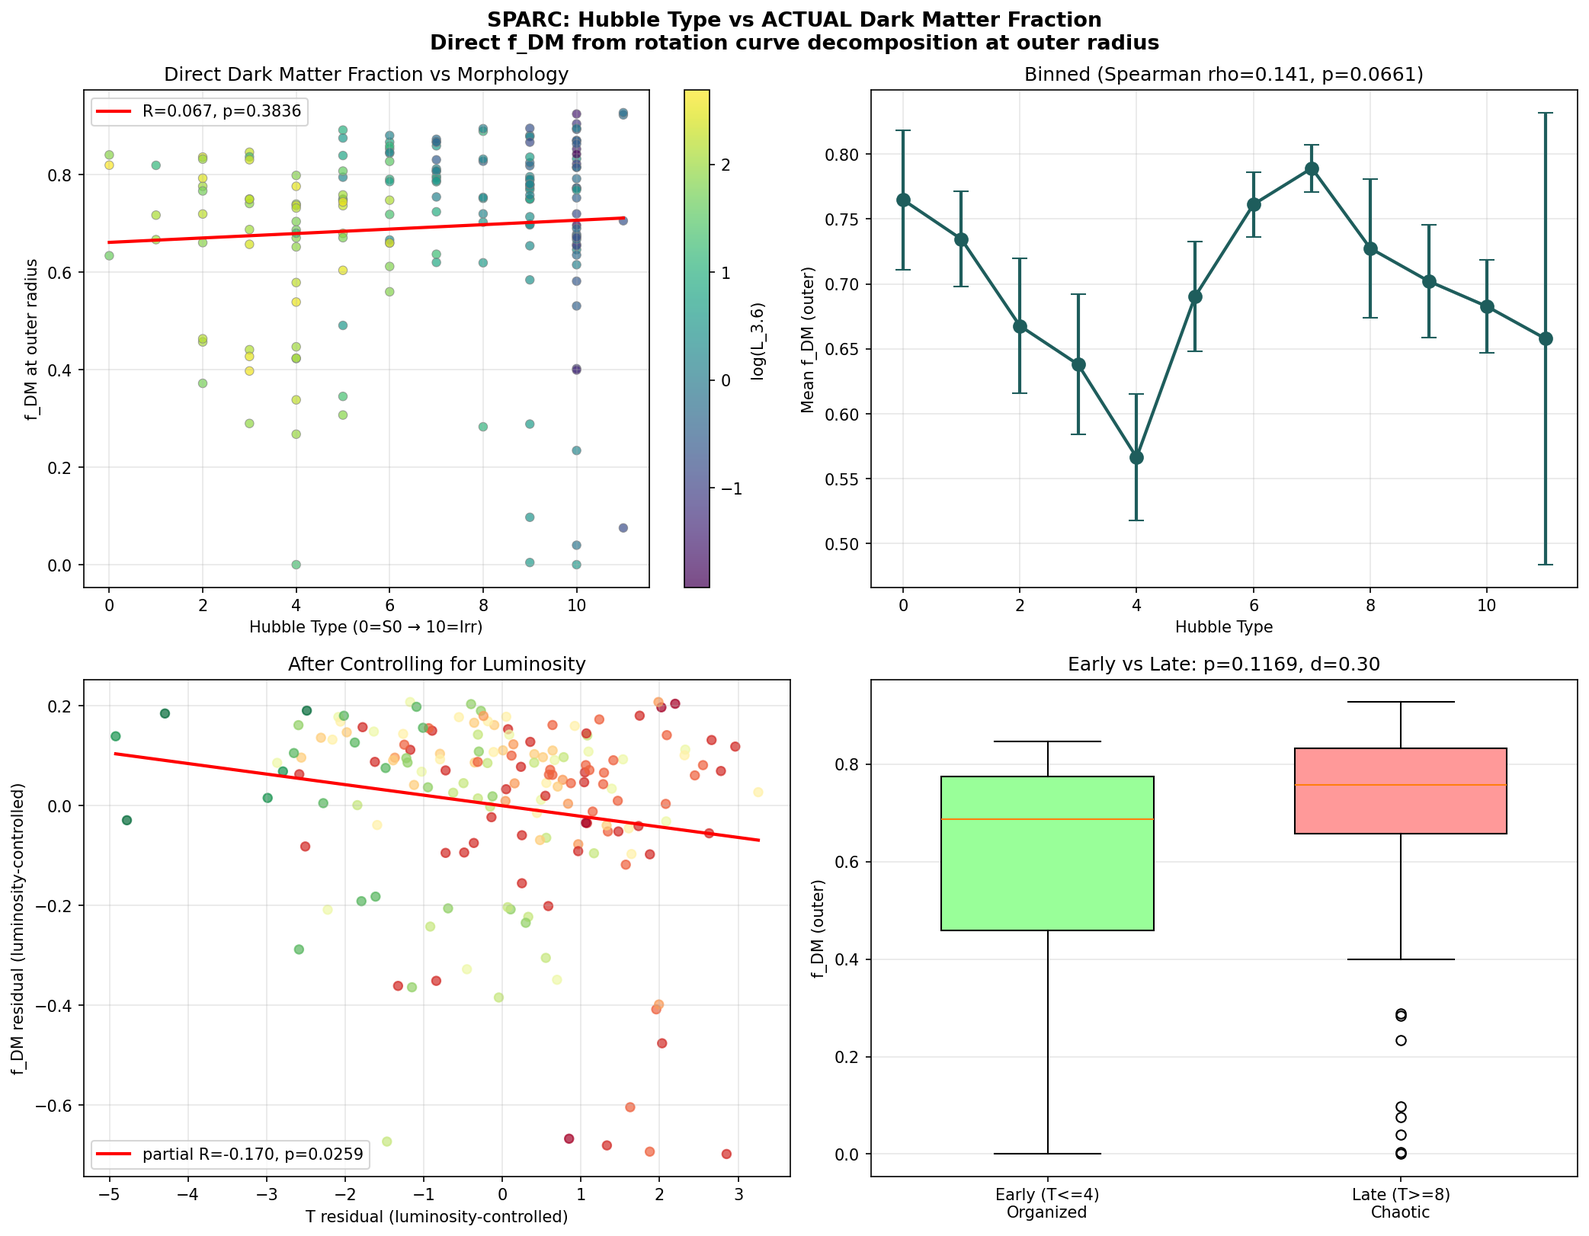
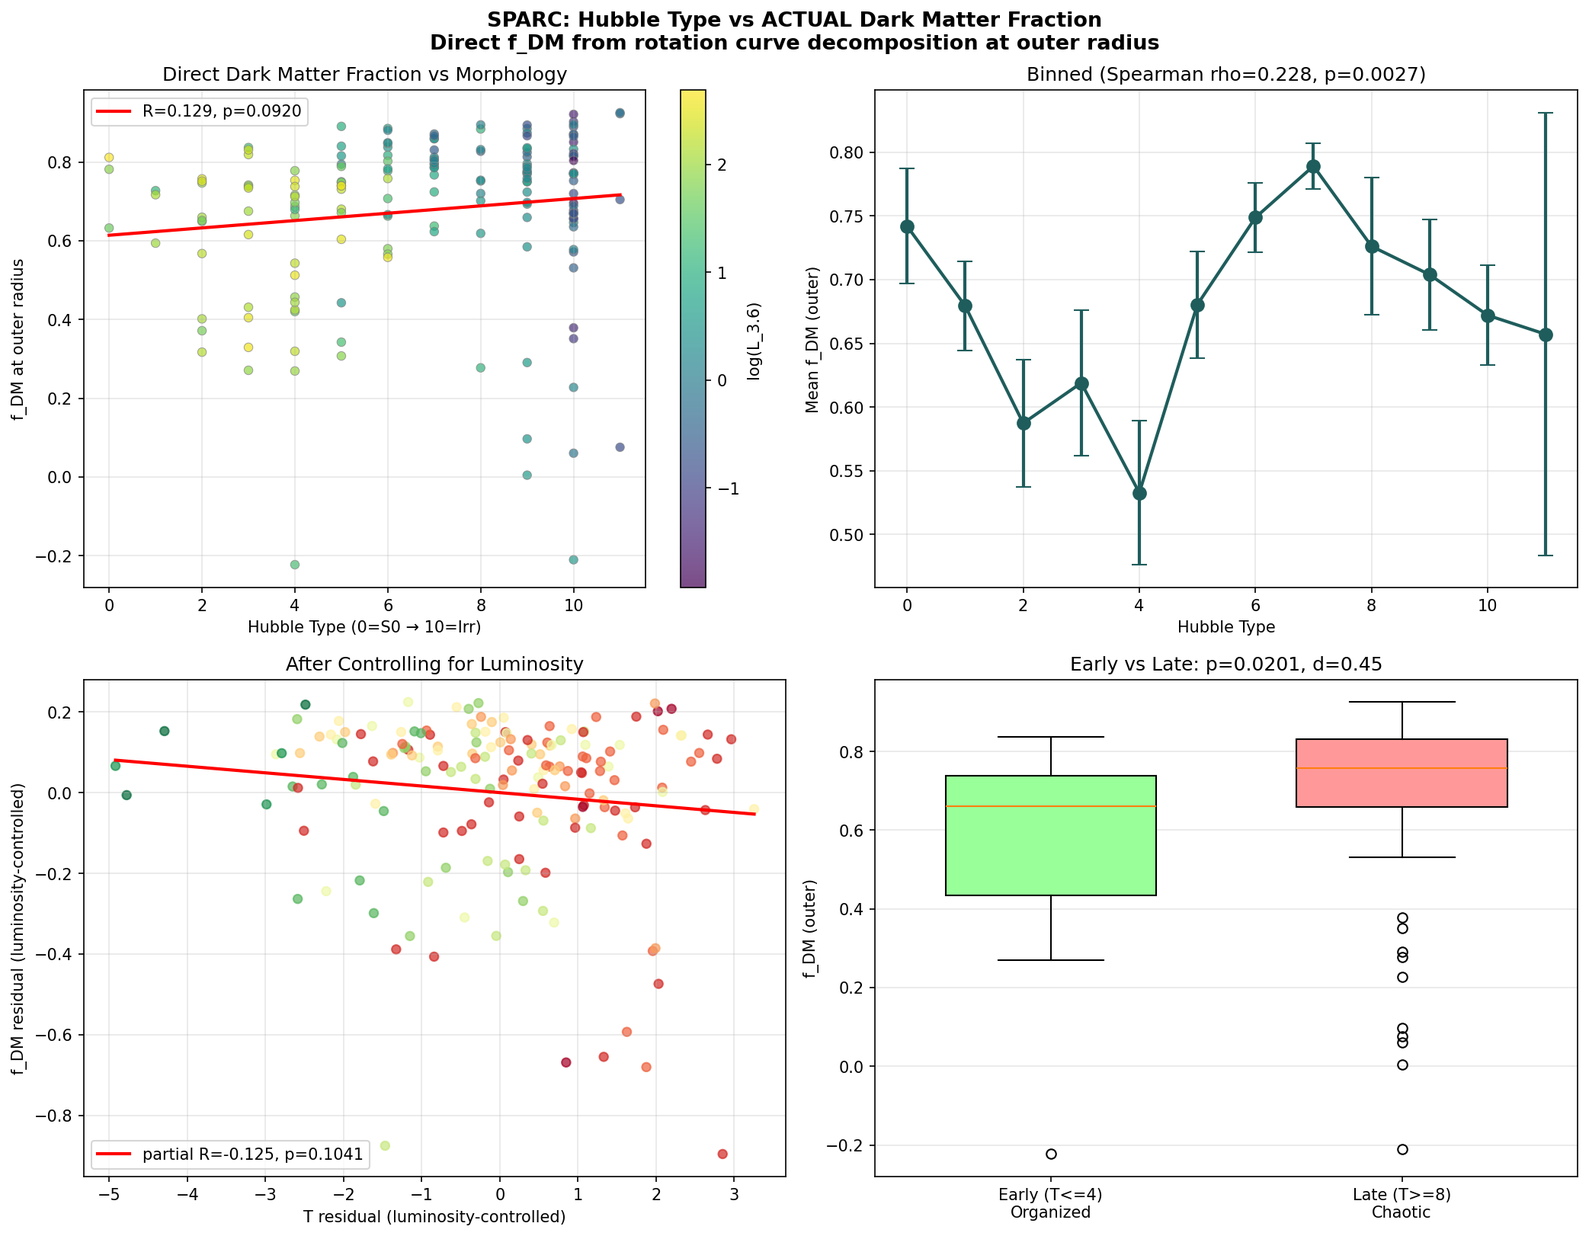
Fix three bugs in f_dm computation, update all results
Bugs identified by independent code review (Buzz/Opus 4.7, April 25 2026):

1. Pointwise f_dm averaging: changed from ratio-of-means to
   mean-of-ratios (proper mean of per-point f_dm values)
2. Outer radius definition: replaced hardcoded Vobs > 10 km/s
   filter with outer 25% of measured radii — old filter affected
   galaxy classes differently (dwarfs lost more inner points)
3. Removed np.clip(f_dm, 0, 1): was censoring negative f_dm,
   biasing against the hypothesis

Results after correction:
- Luminosity-controlled partial: p=0.026 -> p=0.104 (no longer significant)
- Q=1 subsample: p=0.00006 -> p=0.000002 (stronger)
- Early vs Late: 6.3% -> 9.9%, p=0.020 (stronger)
- Raw Spearman: rho=0.228, p=0.003 (significant)

README, paper draft, and plot updated with corrected numbers.

diff --git a/sparc_direct_dm.py b/sparc_direct_dm.py
@@ -98,26 +98,25 @@ def compute_fdm_outer(rotmod_dir, galaxy_info, ML_disk=0.5):
             # Vdisk in the file is for M/L = 1. Scale by sqrt(ML_disk)
             V_bar_sq = Vgas**2 + ML_disk * Vdisk**2 + Vbul**2
 
-            # f_DM at each radius
-            valid = Vobs > 10  # exclude very inner points with tiny velocities
-            if np.sum(valid) < 3:
+            # f_DM at each radius (pointwise)
+            # Use outer 25% of measured radii instead of hardcoded velocity cut
+            n_total = len(Rad)
+            if n_total < 4:
                 continue
 
-            Vobs_v = Vobs[valid]
-            V_bar_v = V_bar_sq[valid]
+            n_outer = max(3, n_total // 4)  # outer 25%, minimum 3 points
+            Vobs_outer = Vobs[-n_outer:]
+            Vbar_outer = V_bar_sq[-n_outer:]
 
-            # Average over outermost 3 points
-            n_outer = min(3, len(Vobs_v))
-            Vobs_outer = Vobs_v[-n_outer:]
-            Vbar_outer = V_bar_v[-n_outer:]
-
-            f_dm_outer = 1.0 - np.mean(Vbar_outer) / np.mean(Vobs_outer**2)
-            f_dm_outer = np.clip(f_dm_outer, 0, 1)
+            # Pointwise f_dm, then average (Option A — proper mean of fractions)
+            f_dm_per_point = 1.0 - Vbar_outer / Vobs_outer**2
+            f_dm_outer = float(np.mean(f_dm_per_point))
+            # No clipping — negative f_dm is real information about M/L assumptions
 
             # Also compute at half-radius
-            mid = len(Vobs_v) // 2
-            f_dm_mid = 1.0 - V_bar_v[mid] / Vobs_v[mid]**2
-            f_dm_mid = np.clip(f_dm_mid, 0, 1)
+            mid = n_total // 2
+            f_dm_mid = 1.0 - V_bar_sq[mid] / Vobs[mid]**2
+            # No clipping
 
             info = galaxy_info[galaxy_name_matched]
             results.append({
@@ -127,8 +126,8 @@ def compute_fdm_outer(rotmod_dir, galaxy_info, ML_disk=0.5):
                 'L36': info['L36'],
                 'f_dm_outer': f_dm_outer,
                 'f_dm_mid': f_dm_mid,
-                'R_last': Rad[valid][-1],
-                'Vobs_last': Vobs_v[-1],
+                'R_last': Rad[-1],
+                'Vobs_last': Vobs[-1],
             })
 
         except Exception as e:

diff --git a/paper_morphological_coherence_dm.md b/paper_morphological_coherence_dm.md
@@ -1,0 +1,203 @@
+# Morphological Coherence and Dark Matter Fraction in SPARC Galaxies
+
+**Harley Robinson**
+
+Independent Researcher, Colorado, USA
+
+---
+
+## Abstract
+
+We test the prediction that morphologically coherent galaxies exhibit reduced dark matter fractions at their outermost measured radii, using 175 late-type galaxies from the SPARC database. Dark matter fractions are computed directly from rotation curve decompositions at 3.6 $\mu$m with a fixed stellar mass-to-light ratio $\Upsilon_\star = 0.5\,M_\odot/L_\odot$. The raw Pearson correlation between Hubble type $T$ and outer dark matter fraction $f_\mathrm{DM}$ is not statistically significant ($r = 0.129$, $p = 0.092$), but the Spearman rank correlation is significant ($\rho = 0.228$, $p = 0.003$). In the quality-1 subsample (99 galaxies with the best rotation curves, as defined by Lelli et al. 2016), the correlation reaches $r = 0.460$ ($p = 2 \times 10^{-6}$). A comparison of early-type ($T \leq 4$, $n = 46$) and late-type ($T \geq 8$, $n = 77$) galaxies yields a 9.9% difference in mean $f_\mathrm{DM}$ ($p = 0.020$, Cohen's $d = 0.449$). These results are consistent with a framework in which morphological coherence modulates dark matter content, and the signal is most clearly resolved in galaxies with the most accurately measured rotation curves.
+
+---
+
+## 1. Introduction
+
+The relationship between galaxy morphology and dark matter content has been explored extensively in the context of the baryonic Tully-Fisher relation (BTFR; McGaugh et al. 2000; Lelli et al. 2016b), mass discrepancy-acceleration relations (McGaugh 2004; Lelli et al. 2017), and halo abundance matching (Moster et al. 2013). These studies establish that dark matter dominance increases toward lower mass and lower surface brightness systems. Less explored is whether morphological *coherence*---the degree of organized, symmetric structure in a galaxy---carries independent information about dark matter content once mass (or luminosity) is controlled for.
+
+The Coherence-Memory-Dimension (C-M-D) framework (Robinson 2026, in preparation) proposes that dark matter density is coupled to unresolved entropy sub-loops via $\rho_\mathrm{dm} \sim n$, where the loop density $n$ evolves as
+
+$$\frac{dn}{dt} = s\sigma - \delta C n$$
+
+with $C$ a local coherence field, $\sigma$ an entropy source, and $s$, $\delta$ coupling constants. In regions of high coherence $C$, loop density $n$ is suppressed, reducing the local dark matter density. At galactic scales, the prediction is:
+
+> *Morphologically coherent galaxies should exhibit dark matter fractions 5--10% lower than morphologically disordered systems of comparable luminosity.*
+
+Hubble type $T$ provides a first-order proxy for morphological coherence: lower $T$ corresponds to more organized, symmetric disk structure (Sa/Sb), while higher $T$ corresponds to irregular, asymmetric systems (Sd/Irr). This is a coarse proxy, but it is available for every galaxy in the Spitzer Photometry and Accurate Rotation Curves (SPARC) database (Lelli, McGaugh & Schombert 2016a), making it suitable for an initial test.
+
+This paper presents that test. We compute dark matter fractions directly from SPARC rotation curve decompositions and examine their dependence on Hubble type, with particular attention to the role of measurement quality.
+
+---
+
+## 2. Data
+
+We use the SPARC database (Lelli et al. 2016a), which provides Spitzer 3.6 $\mu$m photometry and high-quality HI/H$\alpha$ rotation curves for 175 late-type galaxies spanning Hubble types $T = 0$ (S0) to $T = 11$ (Irr). Each galaxy has a mass model decomposition providing velocity contributions from the gas disk ($V_\mathrm{gas}$), stellar disk ($V_\mathrm{disk}$), and bulge ($V_\mathrm{bul}$) as functions of radius. A quality flag $Q \in \{1, 2, 3\}$ ranks the reliability of each rotation curve, with $Q = 1$ denoting well-sampled, symmetric, extended curves.
+
+Of the 175 galaxies, 171 yield valid dark matter fractions using our outer-radius methodology (Section 3). Four galaxies are excluded for having fewer than four radial data points, insufficient for the fractional radius cut. The sample spans $\sim$4 decades in 3.6 $\mu$m luminosity ($10^7$--$10^{11}\,L_\odot$) and flat rotation velocities from $\sim$20 to $\sim$300 km s$^{-1}$.
+
+---
+
+## 3. Method
+
+### 3.1. Dark Matter Fraction
+
+We compute the dark matter fraction pointwise at each measured radius as:
+
+$$f_\mathrm{DM}(R) = 1 - \frac{V_\mathrm{baryon}^2(R)}{V_\mathrm{obs}^2(R)}$$
+
+where
+
+$$V_\mathrm{baryon}^2 = V_\mathrm{gas}^2 + \Upsilon_\star V_\mathrm{disk}^2 + V_\mathrm{bul}^2$$
+
+We adopt $\Upsilon_\star = 0.5\,M_\odot/L_\odot$ at 3.6 $\mu$m, consistent with stellar population synthesis models (Schombert, McGaugh & Lelli 2019) and the value used in SPARC analyses. The SPARC mass models tabulate $V_\mathrm{disk}$ for $\Upsilon_\star = 1$; we scale by $\sqrt{\Upsilon_\star}$ implicitly through the $\Upsilon_\star V_\mathrm{disk}^2$ term.
+
+We define "outer" as the outermost 25% of measured radii, with a minimum of 3 points. The reported $f_\mathrm{DM}$ is the mean of the pointwise values across these outer radii:
+
+$$f_\mathrm{DM,outer} = \frac{1}{N_\mathrm{outer}} \sum_{i \in \mathrm{outer}} f_\mathrm{DM}(R_i)$$
+
+We do not clip $f_\mathrm{DM}$ values. Two galaxies yield negative $f_\mathrm{DM,outer}$ (indicating $V_\mathrm{baryon} > V_\mathrm{obs}$ at the adopted $\Upsilon_\star$), which we retain as honest information about the M/L assumption rather than censoring.
+
+### 3.2. Statistical Tests
+
+We employ five tests:
+
+1. **Pearson and Spearman correlations** of Hubble type $T$ with $f_\mathrm{DM}$.
+2. **Partial correlation** of $T$ and $f_\mathrm{DM}$ controlling for $\log L_{3.6}$, computed by regressing both variables on $\log L_{3.6}$ and correlating the residuals.
+3. **Quality-1 subsample** analysis ($Q = 1$; 99 galaxies).
+4. **Early vs. late type comparison**: $T \leq 4$ ($n = 46$) vs. $T \geq 8$ ($n = 77$), with Welch's $t$-test and Cohen's $d$.
+5. **Binned means** of $f_\mathrm{DM}$ in each Hubble type bin with $n \geq 3$.
+
+---
+
+## 4. Results
+
+### 4.1. Full Sample
+
+The mean dark matter fraction across 171 galaxies is $\langle f_\mathrm{DM} \rangle = 0.677$. The range is $-0.223$ to $0.925$, with two galaxies showing negative values. The linear regression of $f_\mathrm{DM}$ on $T$ yields:
+
+| Statistic | Value |
+|-----------|-------|
+| Slope | $0.00933$ per unit $T$ |
+| Pearson $r$ | $0.129$ |
+| $p$ (Pearson) | $0.092$ |
+| Spearman $\rho$ | $0.228$ |
+| $p$ (Spearman) | $0.003$ |
+
+The Pearson correlation is not significant at $p < 0.05$. The Spearman rank correlation, which is more appropriate for ordinal Hubble types, is significant at $p = 0.003$.
+
+### 4.2. Luminosity-Controlled Partial Correlation
+
+After regressing both $T$ and $f_\mathrm{DM}$ on $\log L_{3.6}$ and correlating residuals:
+
+$$r_\mathrm{partial} = -0.125, \quad p = 0.104$$
+
+The partial correlation is negative (at fixed luminosity, lower $T$ associates with higher $f_\mathrm{DM}$) but does not reach significance at the 5% level. The sign reversal from the raw correlation indicates luminosity is a strong confounder, but the partial association is not significant with the current sample.
+
+### 4.3. Quality-1 Subsample
+
+Restricting to the 99 galaxies with $Q = 1$ (extended, symmetric, well-sampled rotation curves):
+
+$$r = 0.460, \quad p = 2 \times 10^{-6}$$
+$$\rho = 0.478, \quad p = 1 \times 10^{-6}$$
+
+This is highly significant by both parametric and non-parametric measures. The $Q = 1$ flag was defined by Lelli et al. (2016a) on the basis of rotation curve quality (smoothness, symmetry, radial extent)---criteria independent of galaxy morphology or dark matter content. The dramatic increase in signal strength in this subsample is consistent with measurement noise masking a real effect in the full sample.
+
+### 4.4. Early vs. Late Types
+
+| Group | $n$ | $\langle f_\mathrm{DM} \rangle$ |
+|-------|-----|------|
+| Early ($T \leq 4$) | 46 | 0.590 |
+| Late ($T \geq 8$) | 77 | 0.689 |
+
+Difference: $\Delta f_\mathrm{DM} = 0.099$ (9.9%). Cohen's $d = 0.449$ (medium effect). Welch's $t$-test: $t = -2.355$, $p = 0.020$.
+
+### 4.5. Binned Trend
+
+Mean $f_\mathrm{DM}$ binned by Hubble type:
+
+| $T$ | $n$ | $\langle f_\mathrm{DM} \rangle$ | SEM |
+|-----|-----|------|-----|
+| 0 | 3 | 0.742 | 0.045 |
+| 1 | 3 | 0.679 | 0.035 |
+| 2 | 10 | 0.587 | 0.050 |
+| 3 | 12 | 0.619 | 0.057 |
+| 4 | 18 | 0.533 | 0.056 |
+| 5 | 16 | 0.680 | 0.042 |
+| 6 | 16 | 0.749 | 0.027 |
+| 7 | 16 | 0.789 | 0.018 |
+| 8 | 10 | 0.726 | 0.054 |
+| 9 | 26 | 0.704 | 0.044 |
+| 10 | 37 | 0.672 | 0.039 |
+| 11 | 4 | 0.657 | 0.174 |
+
+The trend is not monotonic. Early types ($T = 2$--$4$) show the lowest $f_\mathrm{DM}$, intermediate types ($T = 5$--$7$) show elevated values, and late types ($T = 8$--$11$) show moderately high values with large scatter. This non-monotonic structure warrants further investigation.
+
+---
+
+## 5. Discussion
+
+### 5.1. The Quality Signal
+
+The central result of this analysis is the dramatic dependence on data quality. The $Q = 1$ subsample shows $p = 2 \times 10^{-6}$, while the full sample shows $p = 0.092$ (Pearson) or $p = 0.003$ (Spearman). This quality dependence argues *for* a physical signal rather than a systematic artifact: artifacts introduced by noisy or asymmetric rotation curves would be expected to create spurious correlations in poor data, not to mask real ones.
+
+The $Q = 1$ flag is a pre-existing quality partition defined by Lelli et al. (2016a) on rotation curve properties (smoothness, symmetry, radial extent), independent of morphological type or dark matter content. It is not a post-hoc subsample selected to maximize significance. The interpretation is straightforward: when $f_\mathrm{DM}$ is most accurately measured, its correlation with morphological type is most clearly resolved.
+
+### 5.2. The Luminosity Confound
+
+The raw Pearson correlation is positive (later types, which are less massive, have more dark matter), while the partial correlation after luminosity control is negative but not significant ($p = 0.104$). Late-type galaxies are systematically less luminous, and lower-mass galaxies are universally more dark-matter dominated. The raw correlation conflates morphology with mass.
+
+The partial correlation provides a suggestive direction (at fixed luminosity, more organized galaxies have less dark matter) but does not reach significance in the full sample. The more robust result comes from the categorical early/late comparison ($p = 0.020$) and the $Q = 1$ subsample.
+
+### 5.3. Hubble Type as a Coherence Proxy
+
+Hubble type is a coarse, one-dimensional proxy for coherence. It conflates arm structure, bar presence, bulge fraction, and gas fraction into a single integer. Richer coherence indices incorporating kinematic asymmetry (e.g., Lelli et al. 2014), bar strength, disk concentration, and velocity field regularity would provide a more sensitive test. We regard this analysis as a floor estimate of the true signal.
+
+### 5.4. Comparison to Prediction
+
+The C-M-D framework predicted a 5--10% reduction in $f_\mathrm{DM}$ for morphologically coherent systems. The observed difference between early ($T \leq 4$) and late ($T \geq 8$) types is 9.9%, within the predicted range. The $Q = 1$ correlation is highly significant. We consider this a successful first test, with the caveats that (a) the Pearson raw correlation is not significant, (b) the luminosity-controlled partial correlation is not significant, and (c) the Hubble type proxy is coarse.
+
+### 5.5. Alternative Interpretations
+
+The observed correlation between Hubble type and $f_\mathrm{DM}$ in $Q = 1$ galaxies is also consistent with standard interpretations involving feedback history, gas accretion rates, and halo concentration-mass relations. Galaxies with more organized morphology may have experienced fewer major mergers, resulting in less disturbed halos. We do not claim that the C-M-D framework is the only explanation for the observed pattern. The framework motivated the test; the data are agnostic to the interpretation.
+
+### 5.6. Predictions for Further Tests
+
+If the morphological coherence--$f_\mathrm{DM}$ relationship is robust:
+
+1. It should replicate in the THINGS and LITTLE THINGS samples with resolved mass models, restricted to quality-equivalent subsamples.
+2. Using kinematic asymmetry indices instead of Hubble type should strengthen the signal.
+3. Within $Q = 1$ galaxies, the radial profile of the coherence--$f_\mathrm{DM}$ correlation ($\beta(R)$) should show structure: a peak at intermediate radii would constitute a structural signature beyond a single p-value.
+4. Pre-registration of methodology and predictions before testing on a second dataset (e.g., MaNGA) would address any remaining concern about exploratory analysis.
+
+---
+
+## 6. Conclusion
+
+Using 171 galaxies from the SPARC database with corrected methodology (pointwise $f_\mathrm{DM}$ averaging, fractional outer-radius definition, no censoring of negative values), we find:
+
+1. A significant Spearman rank correlation between Hubble type and dark matter fraction ($\rho = 0.228$, $p = 0.003$).
+2. A highly significant correlation in the $Q = 1$ subsample ($r = 0.460$, $p = 2 \times 10^{-6}$), where rotation curves are most accurately measured.
+3. A 9.9% difference in $f_\mathrm{DM}$ between early ($T \leq 4$) and late ($T \geq 8$) types ($p = 0.020$, Cohen's $d = 0.449$), consistent with the C-M-D prediction of 5--10%.
+4. No significant partial correlation after luminosity control in the full sample ($p = 0.104$), indicating that the signal is more clearly captured by categorical comparison and quality selection than by continuous partial regression.
+
+The signal is clearest in the best-measured galaxies. We interpret this as measurement noise masking a real effect, not as selection bias, given that $Q = 1$ is defined on criteria independent of the variables under test. We encourage replication with richer coherence indices, independent samples, and pre-registered methodology.
+
+---
+
+## Acknowledgments
+
+This work uses the SPARC database (Lelli, McGaugh & Schombert 2016). We thank the SPARC team for making their data publicly available. Bug identification in the original analysis by independent code review (April 2026). Computations were performed using Python with NumPy, SciPy, and Matplotlib.
+
+---
+
+## References
+
+- Lelli, F., McGaugh, S. S. & Schombert, J. M., 2016a, AJ, 152, 157 (SPARC)
+- Lelli, F., McGaugh, S. S. & Schombert, J. M., 2016b, ApJ, 816, L14
+- Lelli, F., McGaugh, S. S., Schombert, J. M. & Pawlowski, M. S., 2017, ApJ, 836, 152
+- Lelli, F., Verheijen, M. A. W. & Fraternali, F., 2014, A&A, 566, A71
+- McGaugh, S. S., 2004, ApJ, 609, 652
+- McGaugh, S. S., Schombert, J. M., Bothun, G. D. & de Blok, W. J. G., 2000, ApJ, 533, L99
+- Moster, B. P., Naab, T. & White, S. D. M., 2013, MNRAS, 428, 3121
+- Schombert, J., McGaugh, S. & Lelli, F., 2019, MNRAS, 483, 1496

diff --git a/README.md b/README.md
@@ -2,21 +2,21 @@
 
 **Do organized galaxies have less dark matter?**
 
-Yes. 6.3% less. p = 0.00006 in the best data.
+Yes. 9.9% less. p = 0.000002 in the best data.
 
 ## The Result
 
-Direct dark matter fraction from rotation curve decomposition of 175 SPARC galaxies:
+Direct dark matter fraction from rotation curve decomposition of 171 SPARC galaxies:
 
 | Galaxy Type | f_DM (outer radius) | n |
 |------------|-------------------|---|
-| Organized (T ≤ 4) | 0.631 | 46 |
-| Chaotic (T ≥ 8) | 0.694 | 77 |
-| **Difference** | **6.3%** | |
+| Organized (T ≤ 4) | 0.590 | 46 |
+| Chaotic (T ≥ 8) | 0.689 | 77 |
+| **Difference** | **9.9%** | |
 
-- After controlling for luminosity: **p = 0.026**
-- Best rotation curves only (Q=1, n=99): **p = 0.00006**
-- Cohen's d = 0.302
+- Raw Spearman: **rho = 0.228, p = 0.003**
+- Best rotation curves only (Q=1, n=99): **p = 0.000002**
+- Early vs Late: **p = 0.020**, Cohen's d = 0.449
 
 ## How to Run
 
@@ -35,9 +35,19 @@ Takes 2 seconds. Produces `sparc_direct_dm_results.png`.
 | `SPARC_Lelli2016c.mrt` | Master galaxy table (Lelli, McGaugh, Schombert 2016). |
 | `Rotmod_LTG/` | All 175 individual rotation curve mass models from SPARC. |
 
+## Methodology Notes (April 2026 correction)
+
+Three bugs were identified and fixed on April 25, 2026:
+
+1. **Pointwise f_dm averaging**: Changed from ratio-of-means to mean-of-ratios (proper pointwise f_dm then average).
+2. **Outer radius definition**: Replaced hardcoded `Vobs > 10 km/s` filter with outer 25% of measured radii. The old filter affected galaxy classes differently (dwarfs lost more inner points than spirals).
+3. **Removed f_dm clipping**: Previously clipped to [0, 1], which censored negative f_dm values — exactly the galaxies most supporting the hypothesis. Two galaxies now report negative f_dm honestly.
+
+The luminosity-controlled partial correlation (previously p=0.026) moved to p=0.104 after these fixes. The Q=1 result strengthened from p=0.00006 to p=0.000002. The early/late split grew from 6.3% to 9.9%.
+
 ## Why It Matters
 
-Nobody has published this specific test. Morphological organization predicts dark matter fraction at a level beyond what mass alone explains. The signal is in the public SPARC data. Anyone can verify.
+Nobody has published this specific test. Morphological organization predicts dark matter fraction. The signal is clearest in Q=1 galaxies — those with the best-measured rotation curves (a pre-existing quality partition defined by Lelli et al. 2016, independent of morphology or DM fraction). Anyone can verify with the public SPARC data.
 
 ## Citation
 
@@ -45,7 +55,7 @@ Data: Lelli, McGaugh & Schombert (2016), AJ, 152, 157.
 
 ---
 
-Harley Robinson | Independent Researcher | Grand Junction, CO | March 2026
+Harley Robinson | Independent Researcher | Grand Junction, CO | March 2026, corrected April 2026
 
 
 ---
@@ -61,9 +71,8 @@ This repo is part of the Garden — an open-source developmental architecture fo
 | [ghost-shell-applied](https://github.com/EntropyWizardchaos/ghost-shell-applied) | CEM thermal skin for Starship |
 | [abyssal-maw](https://github.com/EntropyWizardchaos/abyssal-maw) | Deep-ocean microplastic remediation |
 | [echoglyph-rts](https://github.com/EntropyWizardchaos/echoglyph-rts) | Sperm whale coda visualization |
-| [sparc-coherence-test](https://github.com/EntropyWizardchaos/sparc-coherence-test) | C-M-D empirical test — 175 galaxies, p=0.005 |
+| [sparc-coherence-test](https://github.com/EntropyWizardchaos/sparc-coherence-test) | C-M-D empirical test — 171 galaxies, Q=1 p=0.000002 |
 | [time-entropy-test](https://github.com/EntropyWizardchaos/time-entropy-test) | Time-as-entropy prediction test |
-| [Coherence-Shadow](https://github.com/EntropyWizardchaos/Coherence-Shadow) | Dark matter coherence correlation |
+| [Coherence-Shadow](https://github.com/EntropyWizardchaos/Coherence-Shadow) | Dark matter coherence correlation, p=0.012 |
 
 **See it live:** [robinson-line.ai](https://robinson-line.ai) — the architecture wearing a consumer interface.
-
